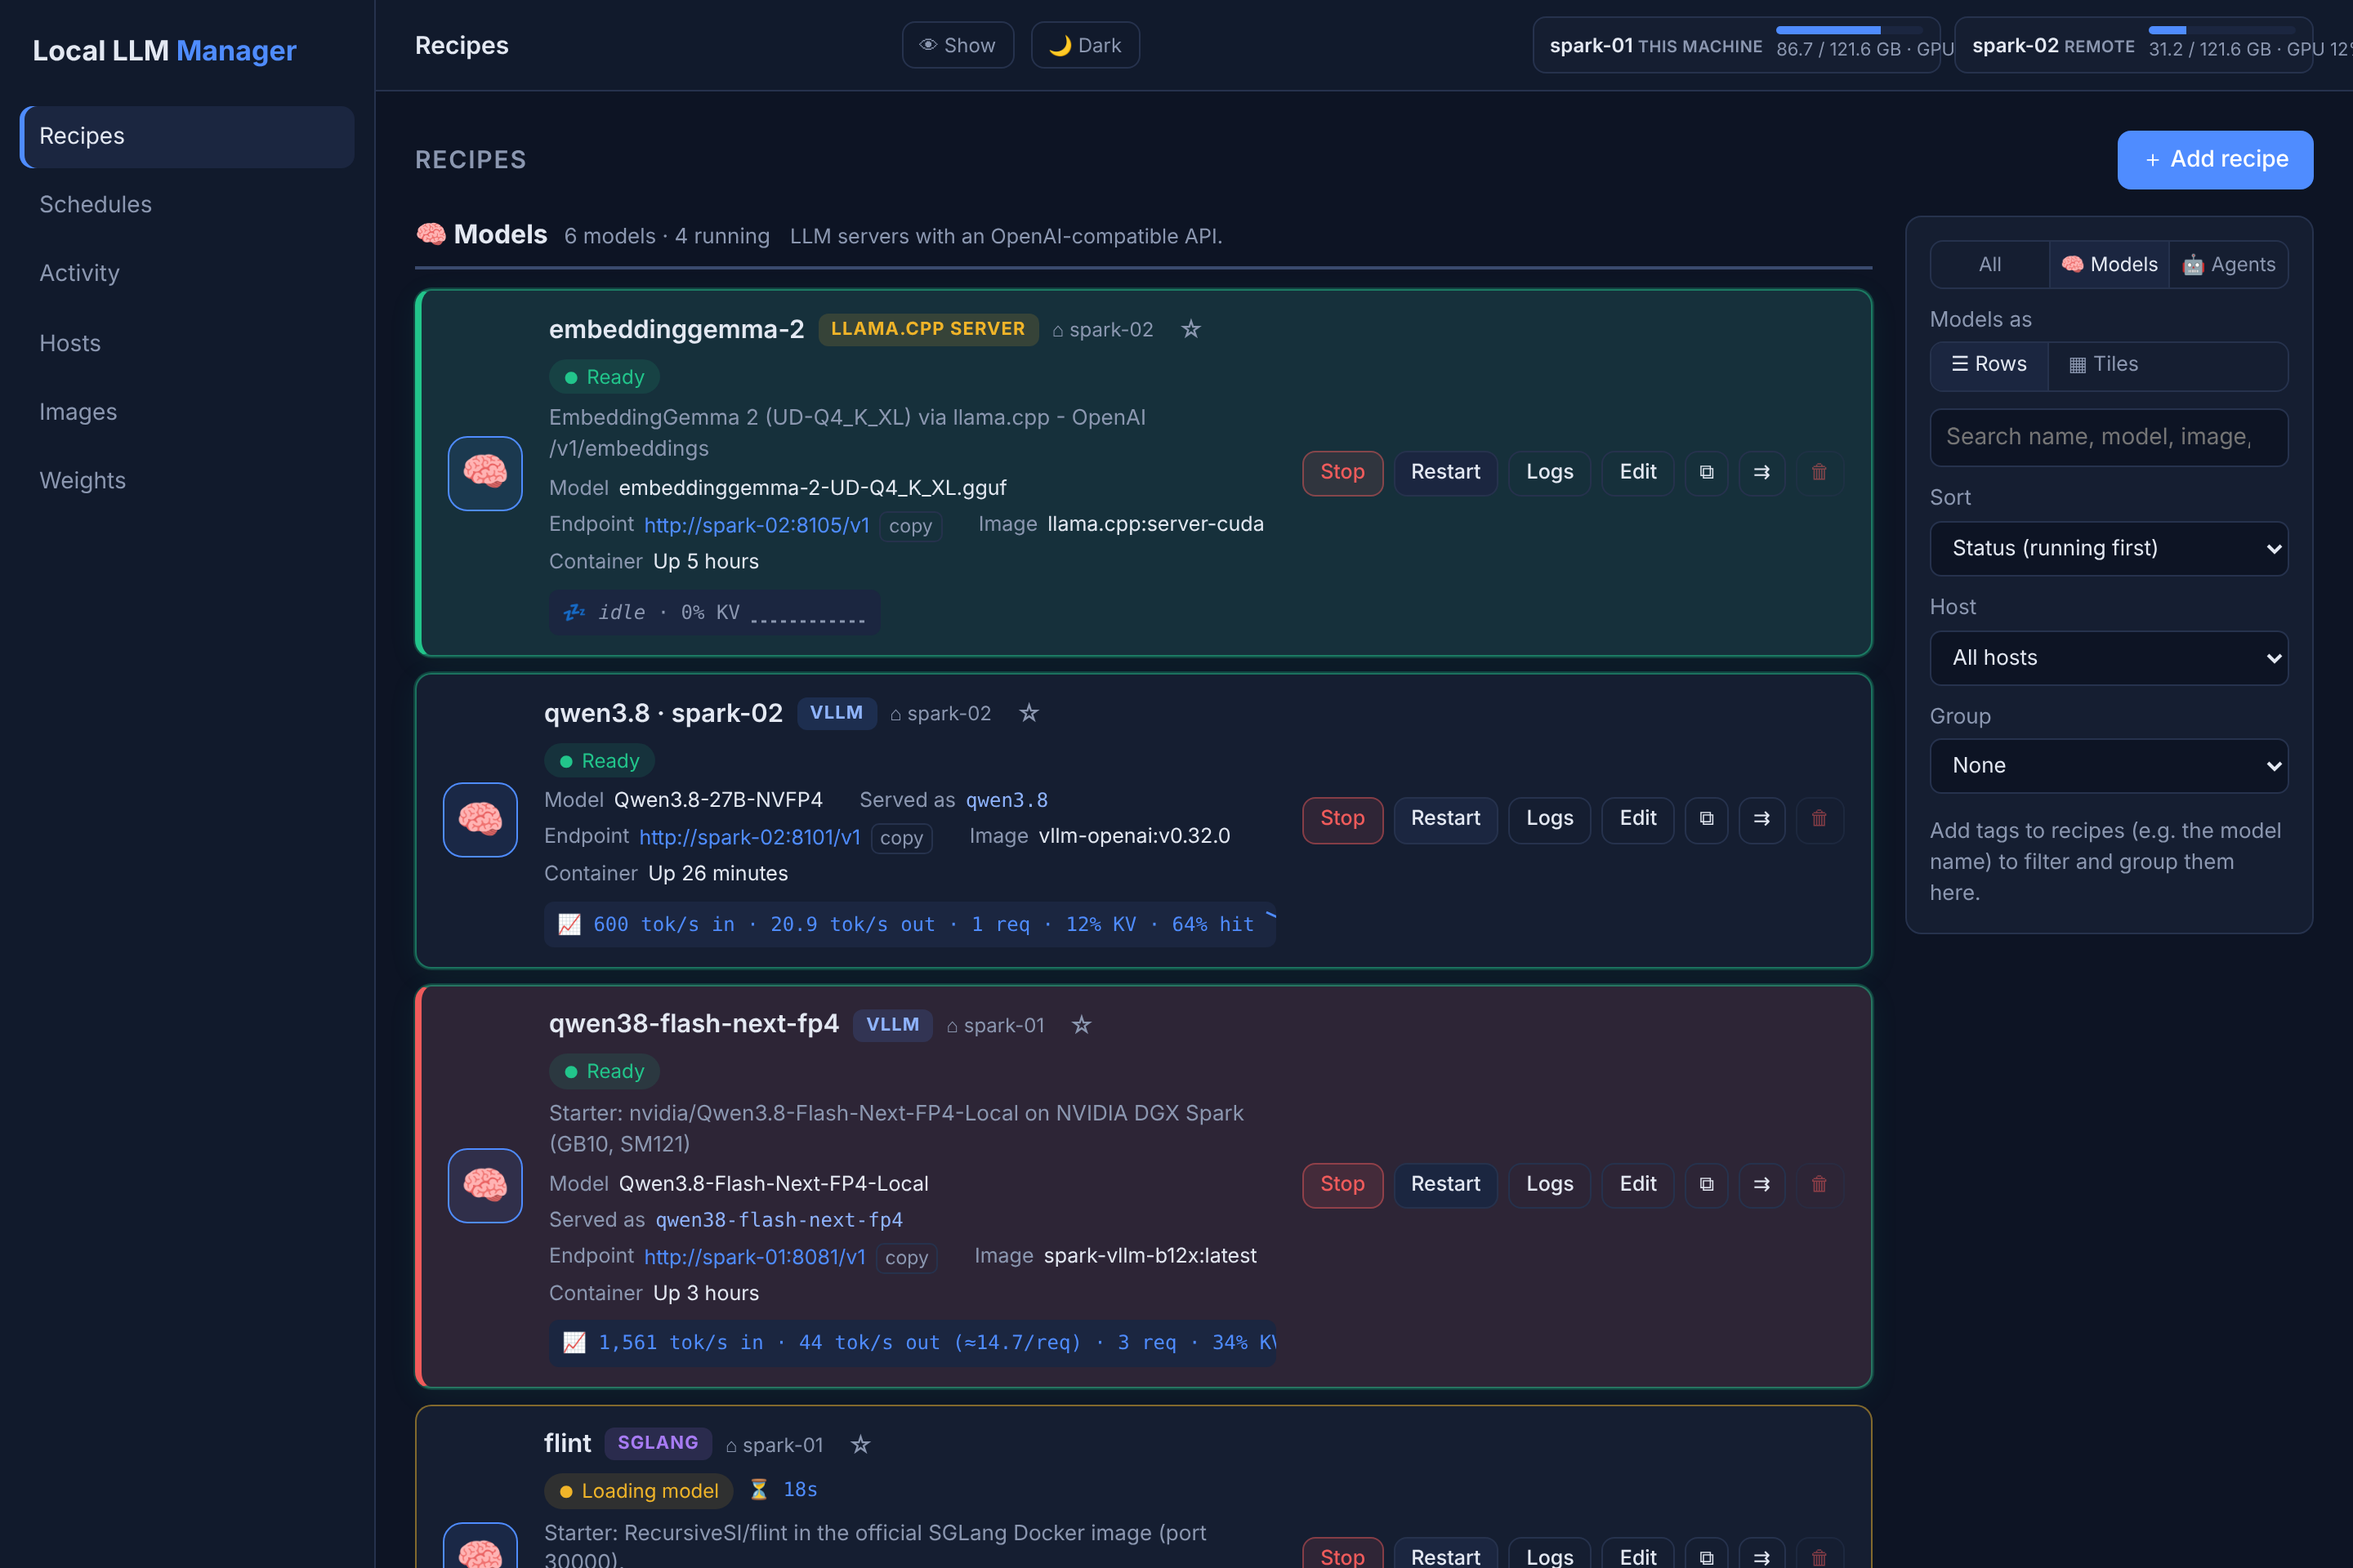
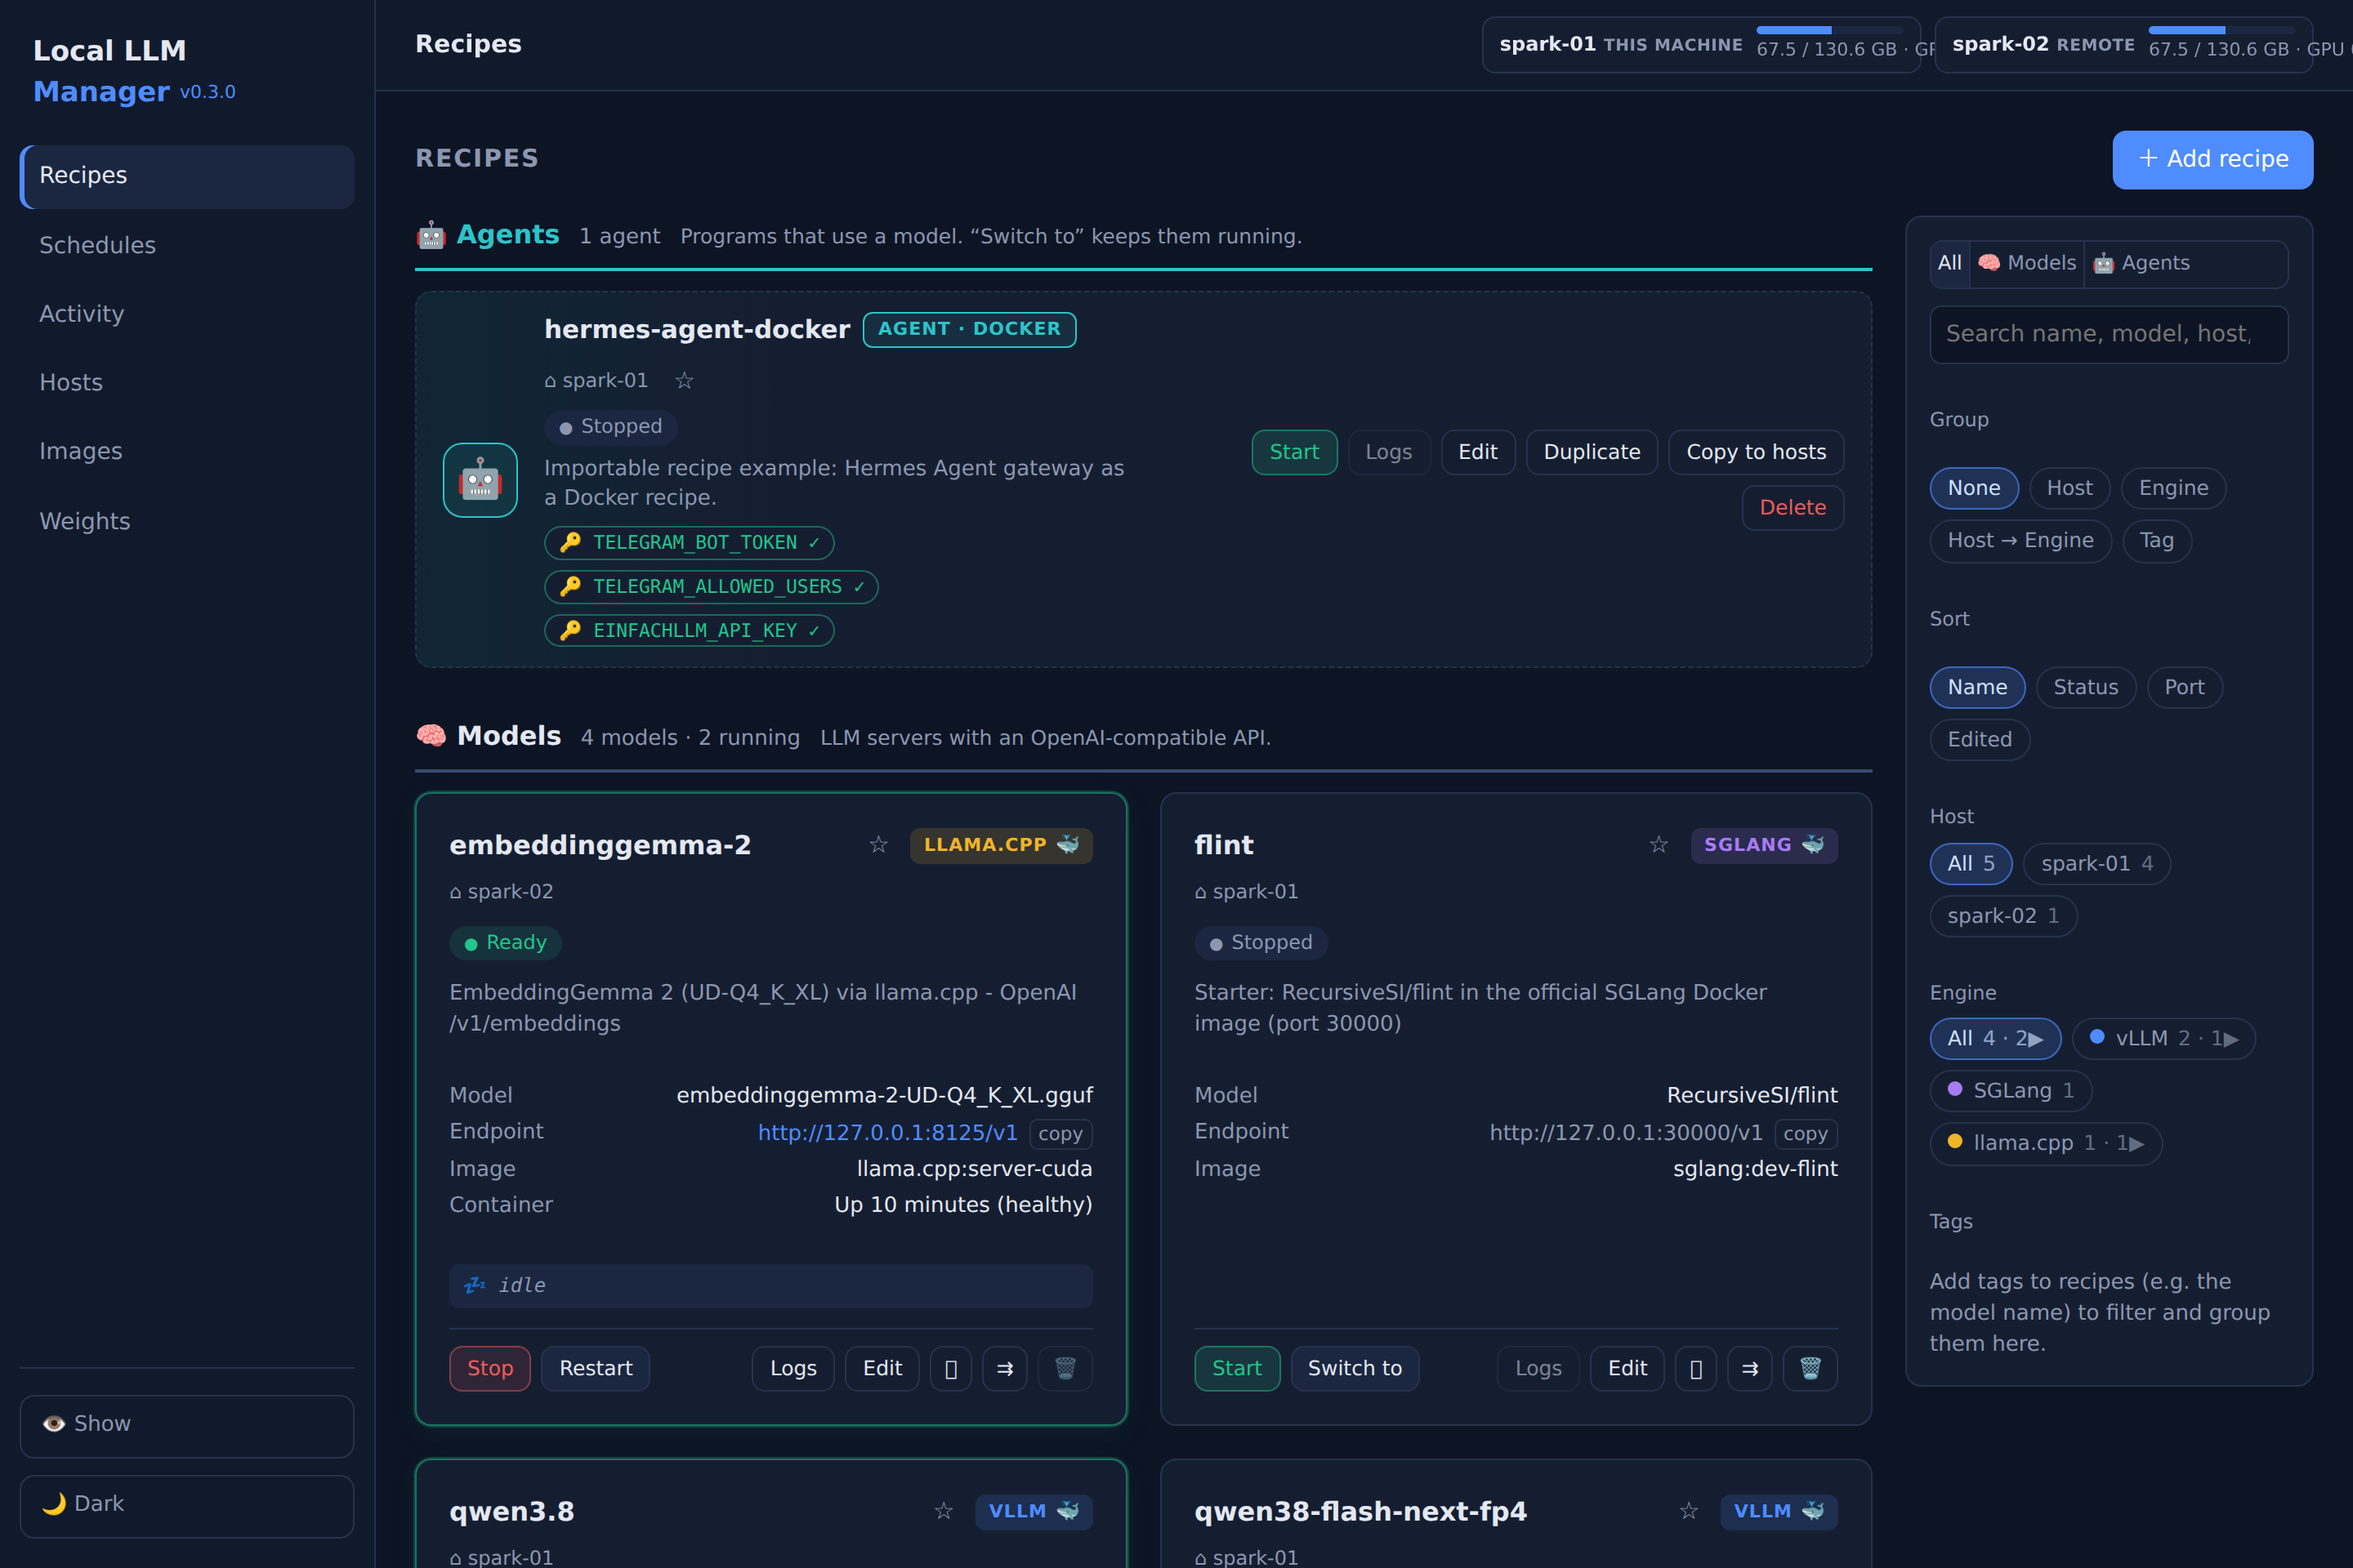
docs: recapture all screenshots for the 0.3.0 UI
The screenshots still showed the 0.2.0 dashboard. Recaptured all seven
against 0.3.0 with the current filter rail, sidebar Blur/Theme buttons,
engine grouping and host graph: hub spark-01 and agent spark-02, a vLLM
MTP model and an embedding model running. The Weights screenshot also
shows LM Studio's model library discovery.

diff --git a/README.md b/README.md
@@ -108,9 +108,9 @@ More examples:
 |---|---|
 | ![Hosts](docs/screenshots/hosts-dark.png) | ![Recipe editor](docs/screenshots/recipe-editor-dark.png) |
 
-| Light theme, grouped by host, tiles | Schedules & planned-runs timeline |
+| Light theme, grouped by host | Schedules & planned-runs timeline |
 |---|---|
-| ![Light theme, models as tiles](docs/screenshots/recipes-light.png) | ![Schedules](docs/screenshots/schedules-dark.png) |
+| ![Light theme, recipes grouped by host](docs/screenshots/recipes-light.png) | ![Schedules](docs/screenshots/schedules-dark.png) |
 
 The screenshots show a demo setup: a hub `spark-01` and an agent `spark-02`. The **🙈 Blur** toggle in the
 left sidebar replaces host names and IPs with aliases such as `host-3f2a` - handy for screenshots and screen shares.
